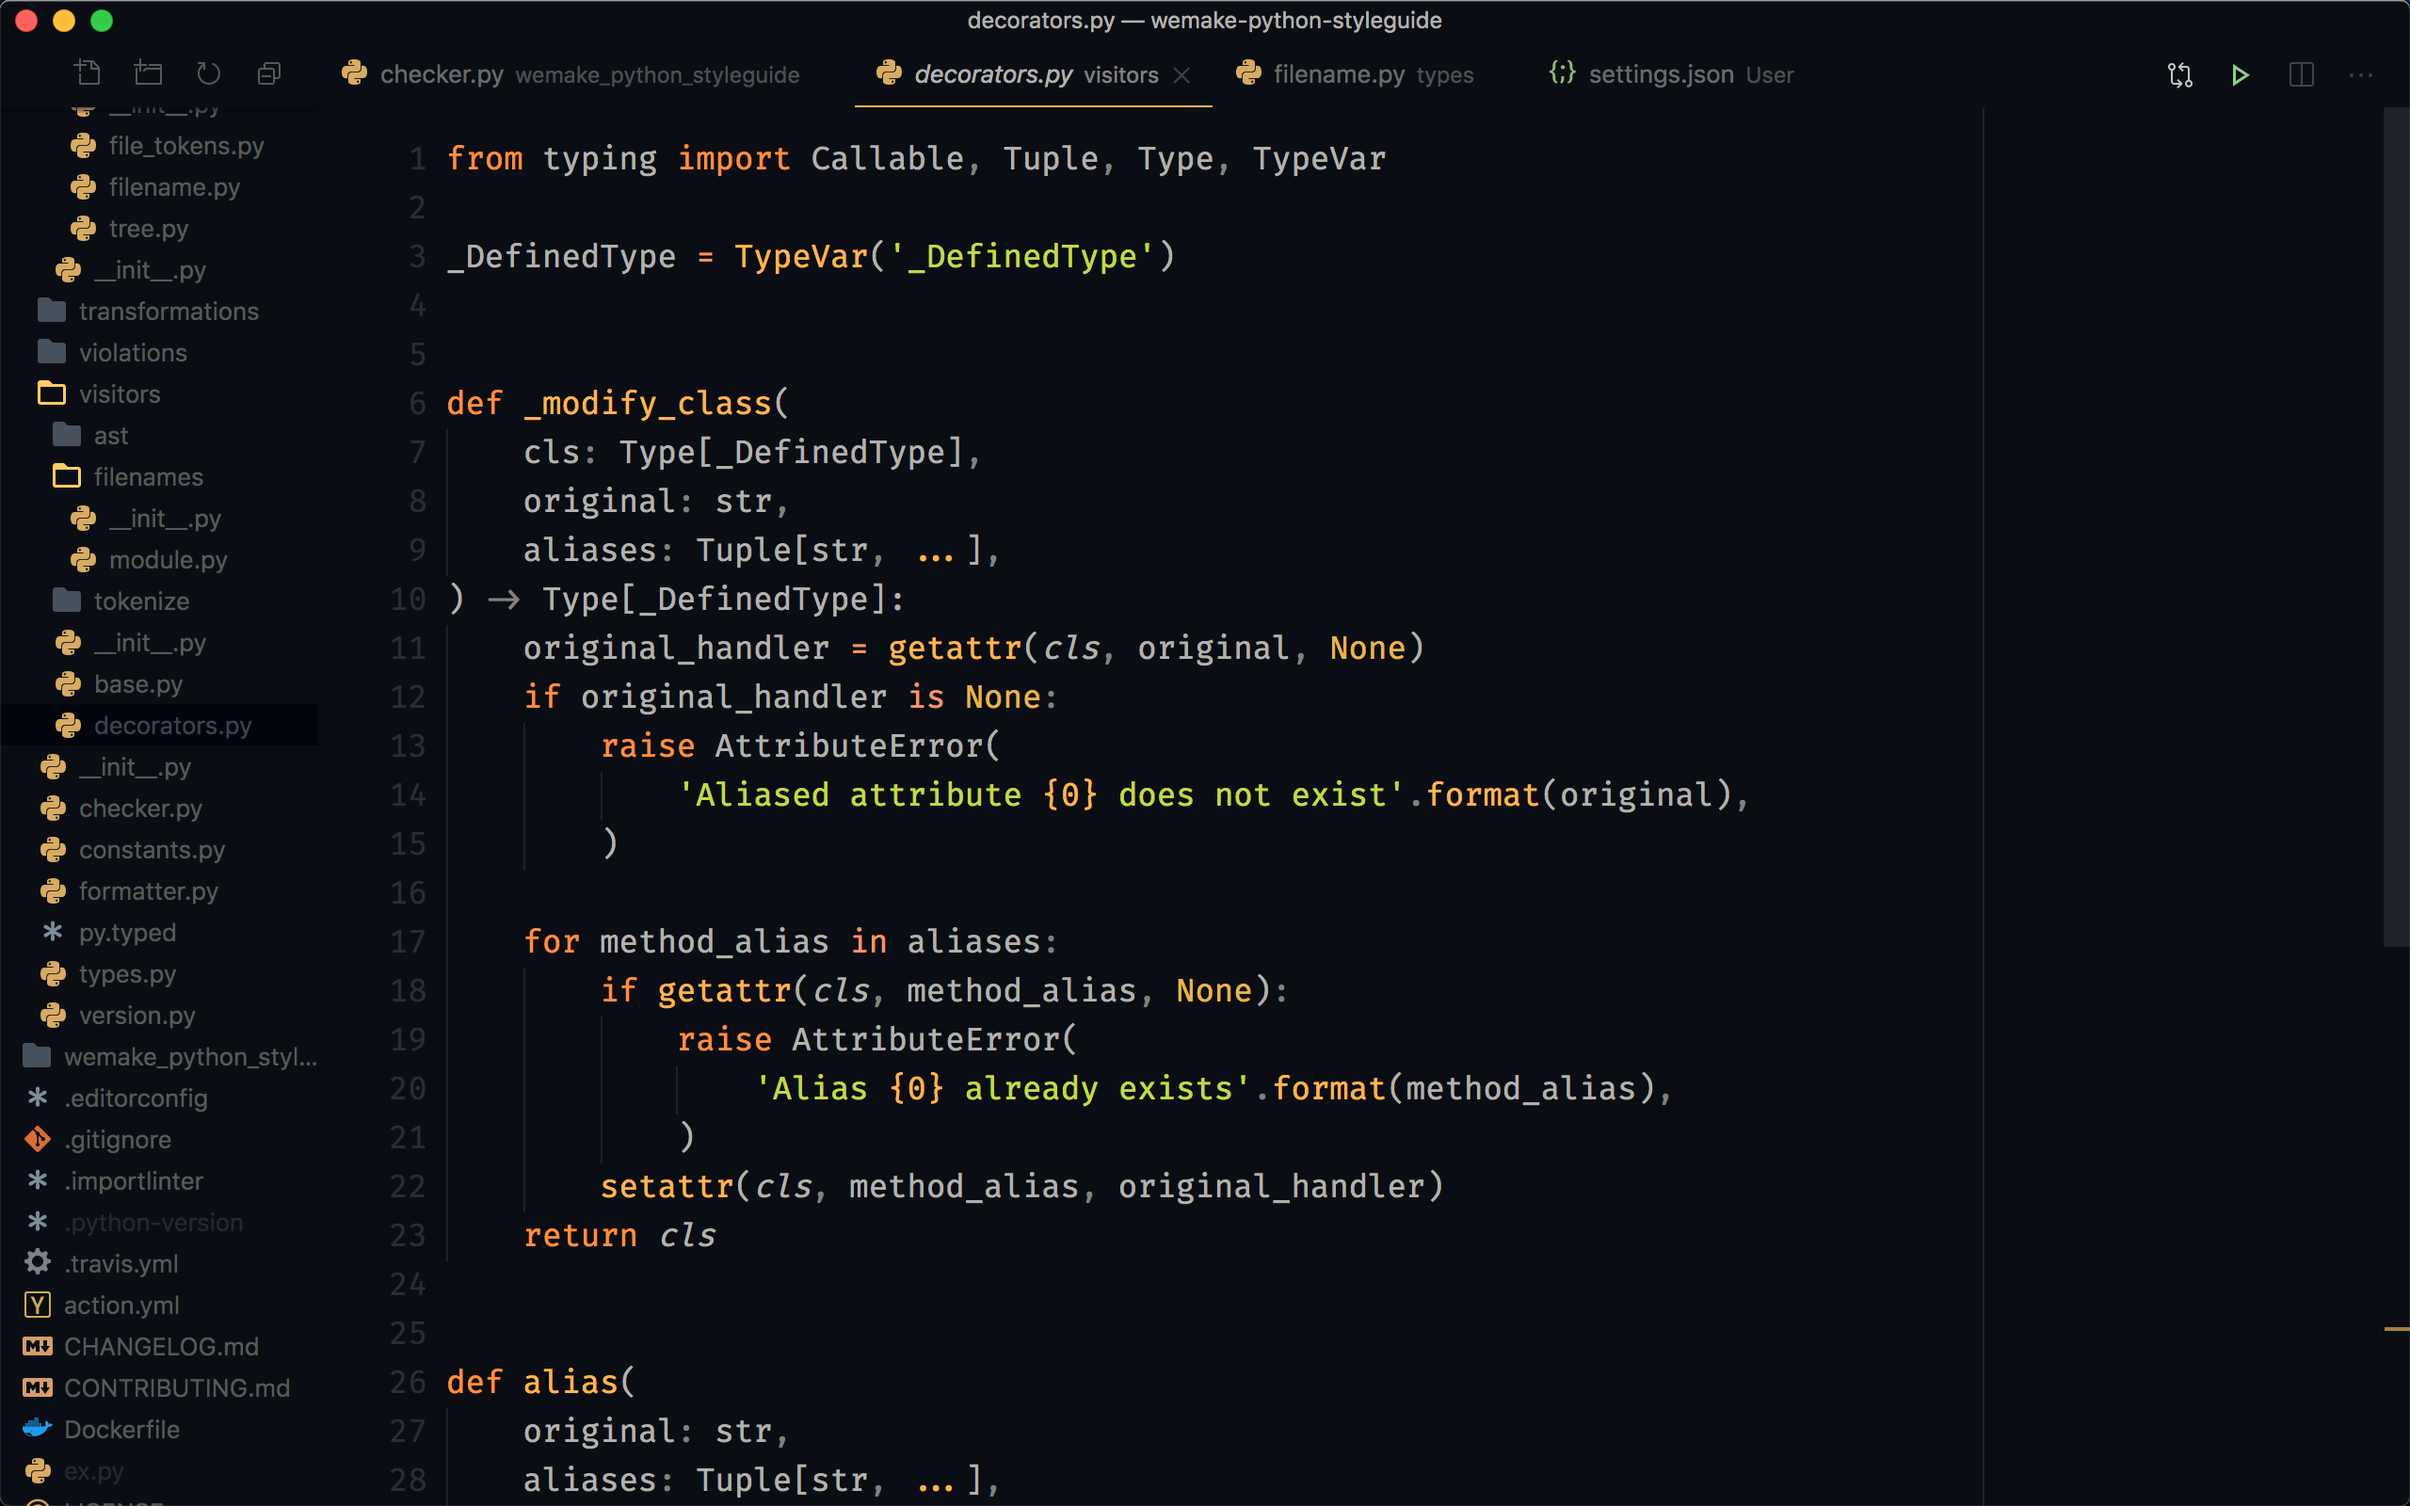
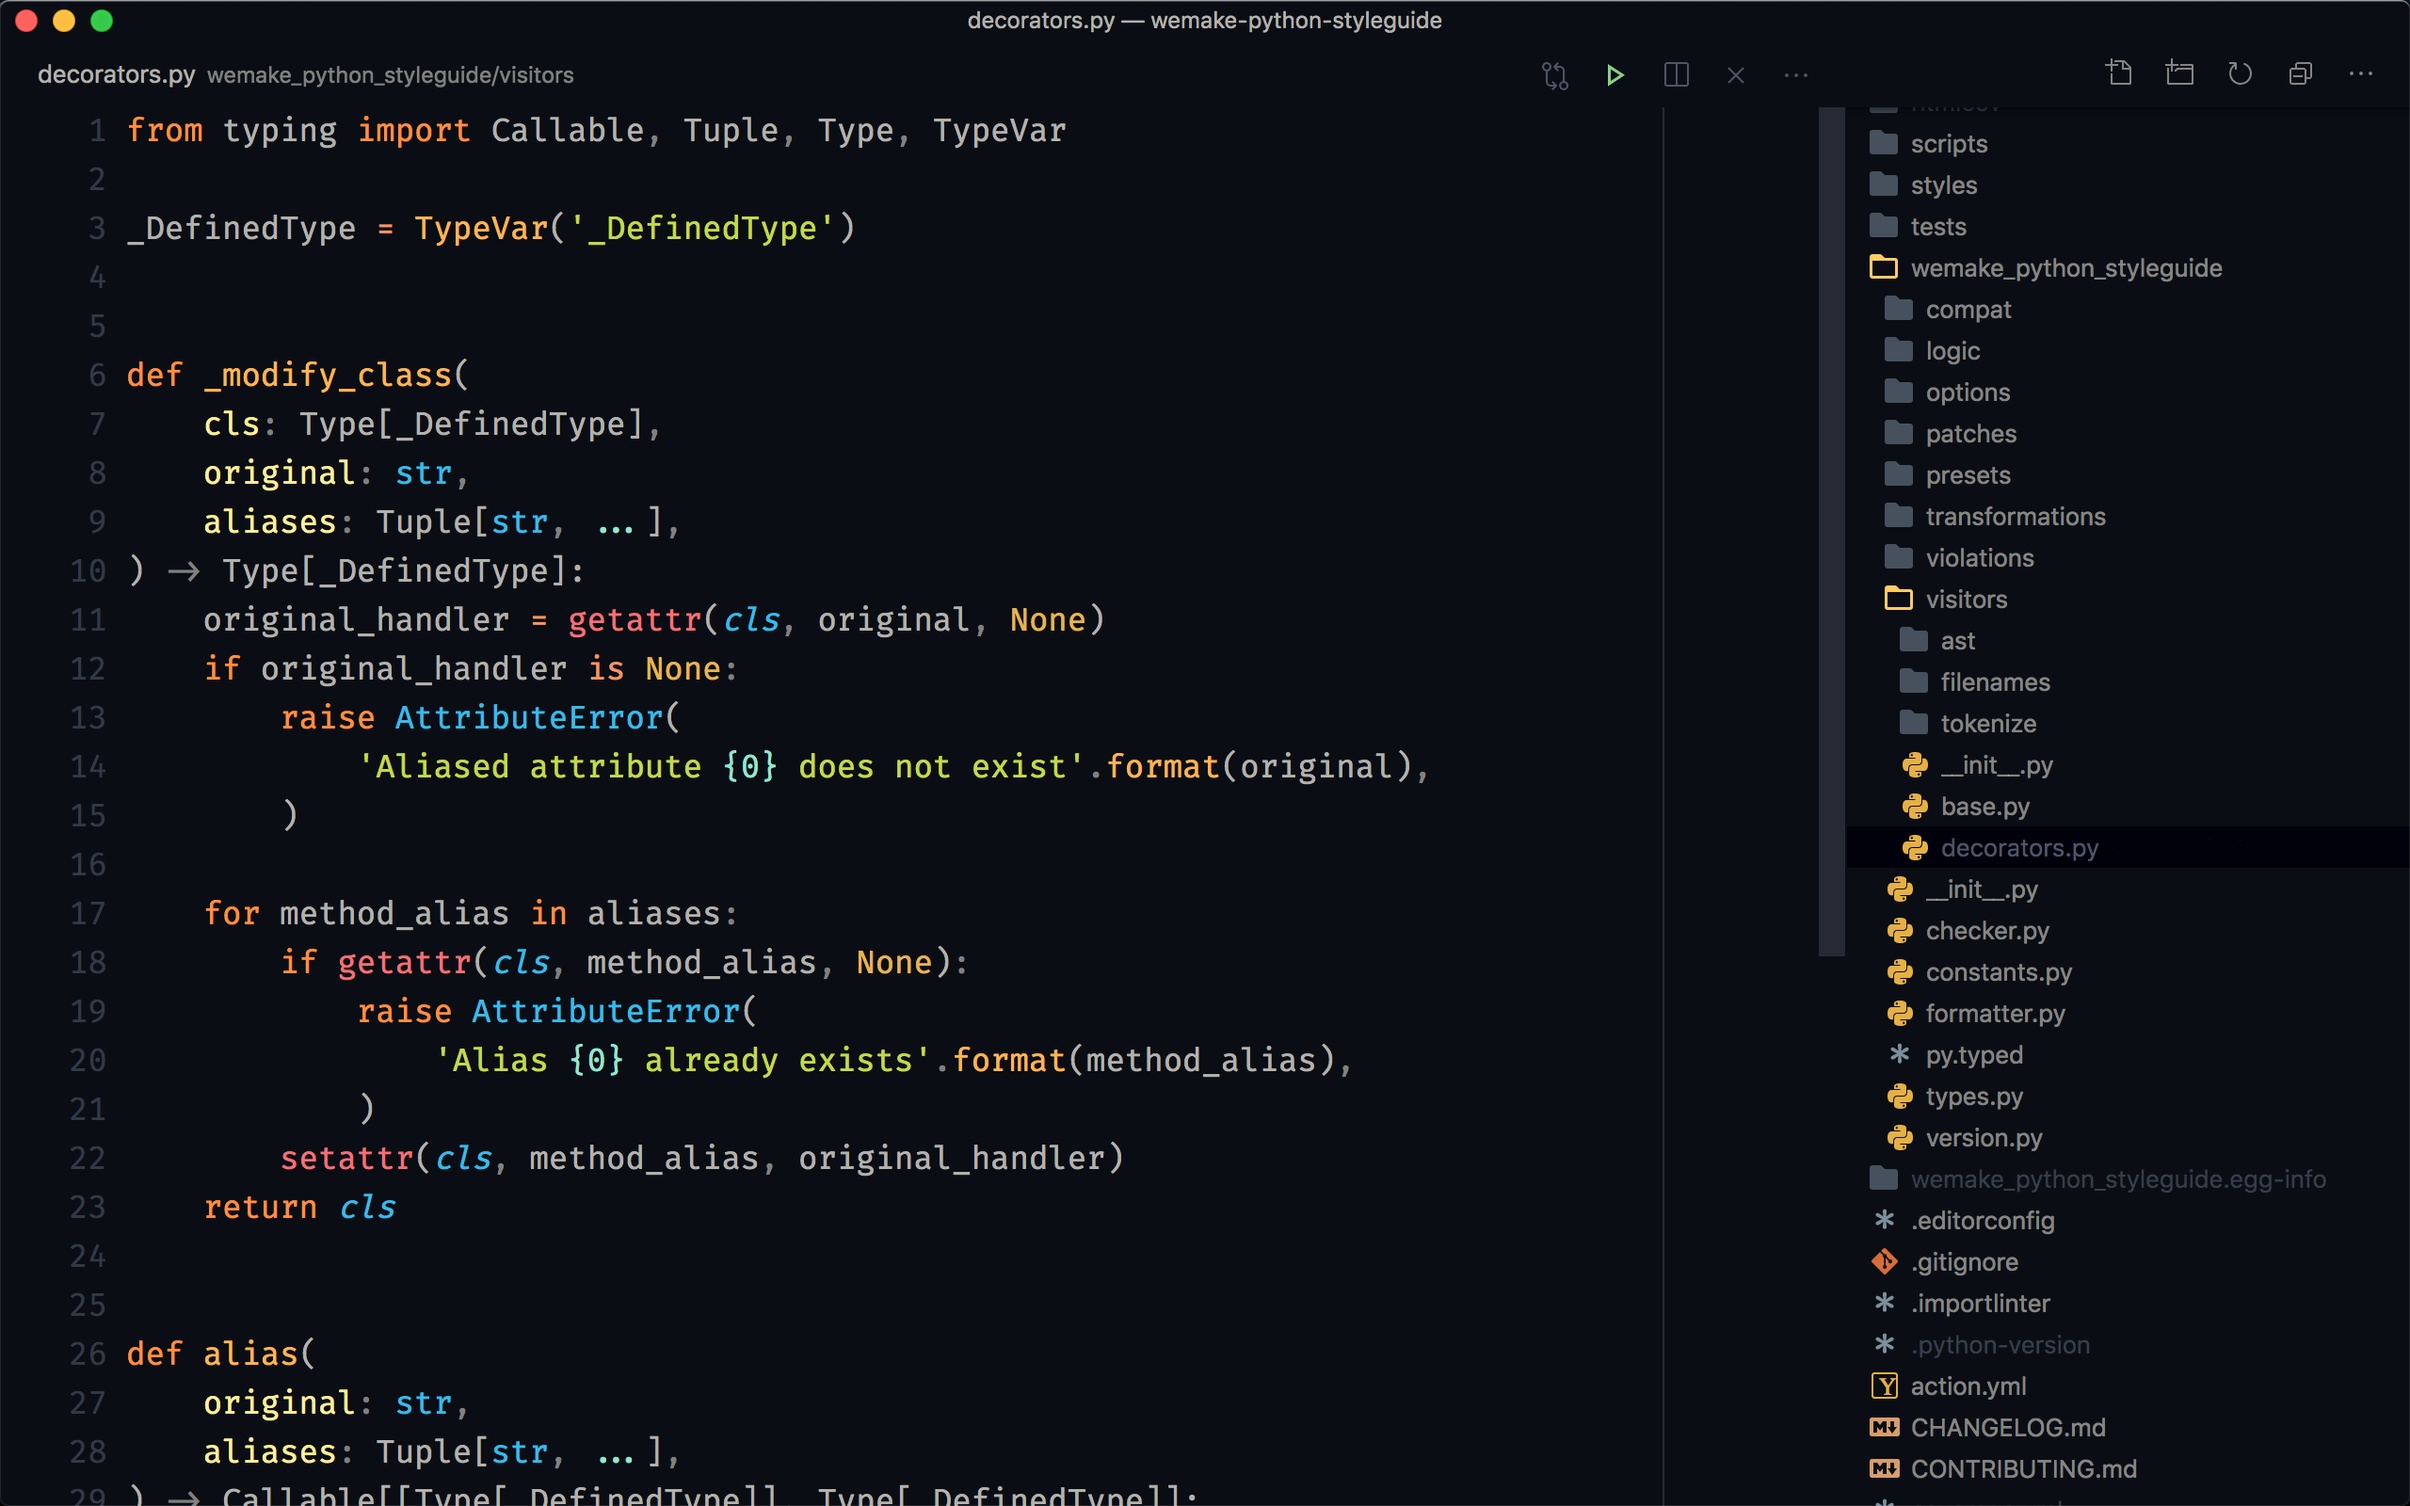
Adds codespaces support

diff --git a/README.md b/README.md
@@ -90,6 +90,8 @@ Here's how my new `vscode` setup looks like:
 
 ![sobolevn's vscode for Python](https://raw.githubusercontent.com/sobolevn/dotfiles/master/media/vscode-python.png)
 
+It is also fully [configured](https://docs.github.com/en/free-pro-team@latest/github/developing-online-with-codespaces/personalizing-codespaces-for-your-account) to be used with [Codespaces](https://github.com/features/codespaces).
+
 Here's [a list of packages](https://github.com/sobolevn/dotfiles/blob/master/vscode/install.sh) I use:
 
 - [`ayu`](https://github.com/ayu-theme/vscode-ayu) theme with modifications and `A File Icon` icons
